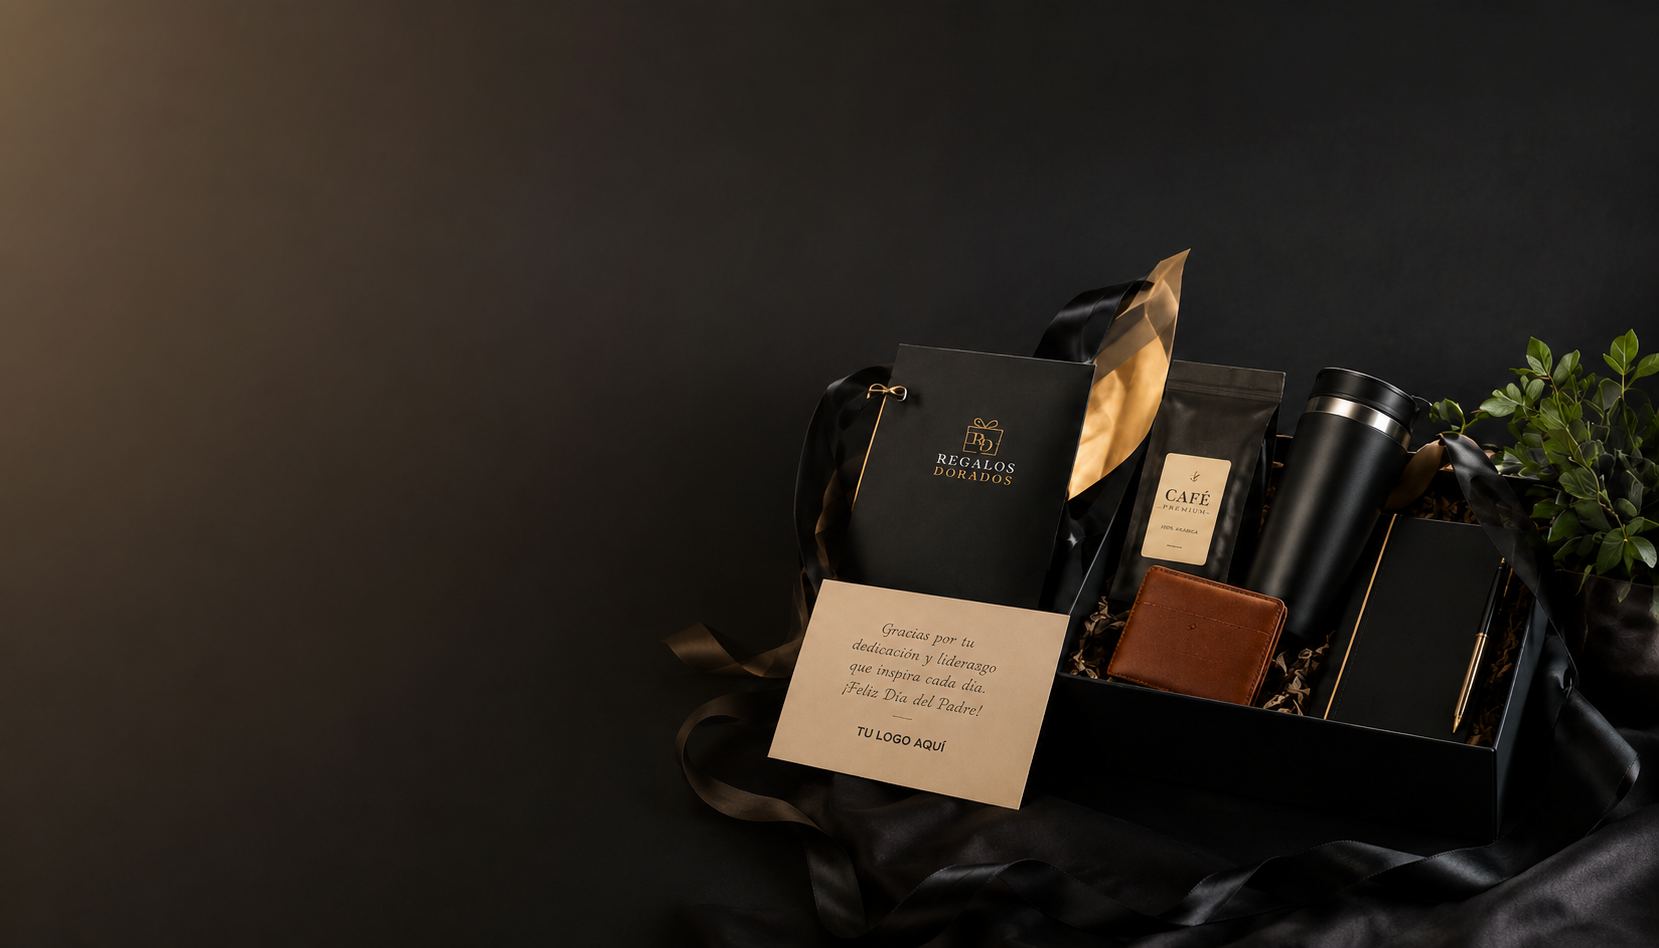
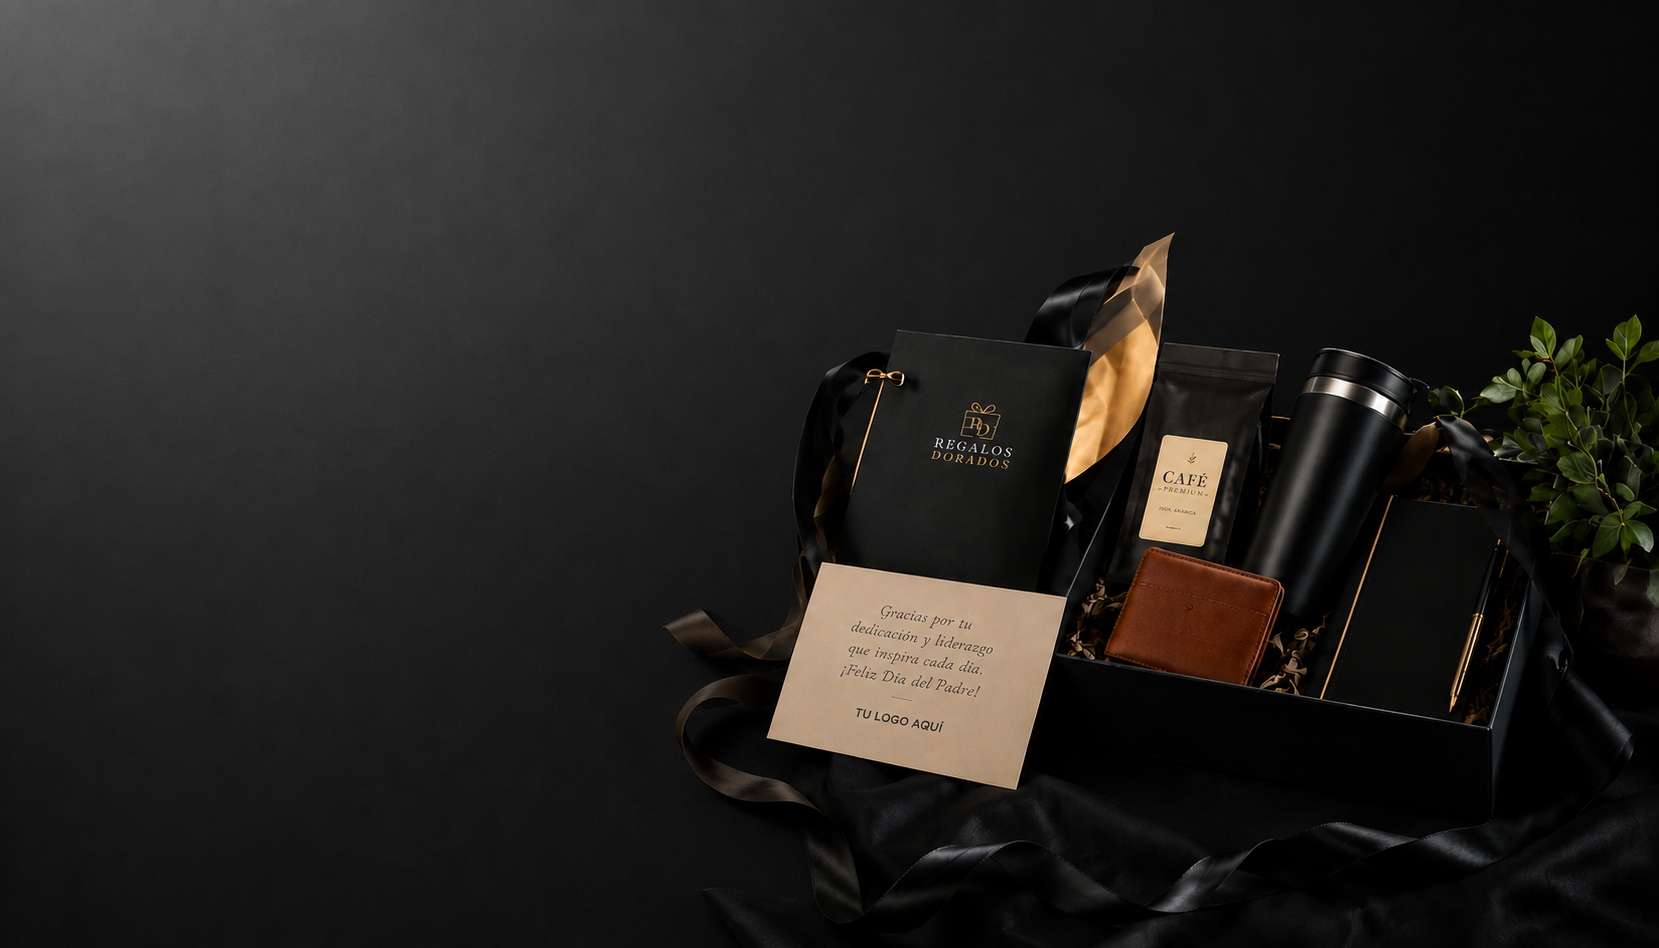
[dyad] Cambio de texto de "Atención VIP" a "ATENCIÓN AL CLIENTE" en el Hero. - wrote 1 file(s) + extra files edited outside of Dyad

diff --git a/src/components/Hero.tsx b/src/components/Hero.tsx
@@ -5,7 +5,7 @@ const features = [
   { title: 'Personalizados', icon: Sparkles },
   { title: 'Descuentos x Cantidad', icon: Percent },
   { title: 'Envíos a todo el país', icon: Truck },
-  { title: 'Atención VIP', icon: Headphones }
+  { title: 'ATENCIÓN AL CLIENTE', icon: Headphones }
 ];
 
 const Hero: React.FC = () => {